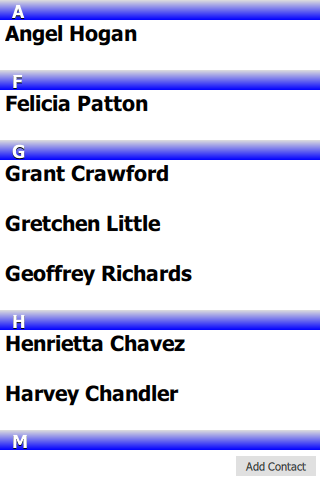
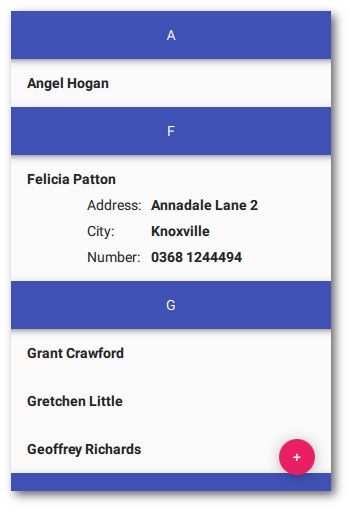
Overhaul the Contact List example - part II
Move the Edit and Remove buttons from the delegate to a context menu
that is triggered on press-and-hold. Get rid of a lot of custom font
sizes and hardcoded geometries. This ensures that the example looks
sensible on all platforms, styles, scale factors, system fonts...

diff --git a/examples/quickcontrols2/contactlist/ContactDelegate.ui.qml b/examples/quickcontrols2/contactlist/ContactDelegate.ui.qml
@@ -49,110 +49,67 @@
 ****************************************************************************/
 
 import QtQuick 2.7
+import QtQuick.Layouts 1.0
 import QtQuick.Controls 2.1
 
-AbstractButton {
+ItemDelegate {
     id: delegate
 
-    property alias remove: remove
-    property alias edit: edit
-
-    width: 300
-    height: 50
-    clip: true
     checkable: true
-    autoExclusive: true
 
-    Column {
-        id: column1
-        height: 400
-        width: parent.width - 20
-        spacing: 4
+    contentItem: ColumnLayout {
+        spacing: 10
 
-        Row {
-            id: row1
-            spacing: 10
-
-            Label {
-                text: fullName
-                font.pointSize: 16
-                anchors.verticalCenter: parent.verticalCenter
-                font.bold: true
-            }
+        Label {
+            text: fullName
+            font.bold: true
+            elide: Text.ElideRight
+            Layout.fillWidth: true
         }
 
-        Grid {
+        GridLayout {
             id: grid
-            opacity: 0
+            visible: false
 
-            x: 60
-            spacing: 10
             columns: 2
+            rowSpacing: 10
+            columnSpacing: 10
+
             Label {
                 text: qsTr("Address:")
-                font.bold: true
-                font.pixelSize: 16
+                Layout.leftMargin: 60
             }
 
             Label {
                 text: address
-                font.pixelSize: 16
                 font.bold: true
+                elide: Text.ElideRight
+                Layout.fillWidth: true
             }
 
             Label {
                 text: qsTr("City:")
-                font.pixelSize: 16
-                font.bold: true
+                Layout.leftMargin: 60
             }
 
             Label {
                 text: city
-                font.pixelSize: 16
                 font.bold: true
+                elide: Text.ElideRight
+                Layout.fillWidth: true
             }
 
             Label {
                 text: qsTr("Number:")
-                font.pixelSize: 16
-                font.bold: true
+                Layout.leftMargin: 60
             }
 
             Label {
                 text: number
-                font.pixelSize: 16
                 font.bold: true
+                elide: Text.ElideRight
+                Layout.fillWidth: true
             }
-        }
-
-        Row {
-            id: row
-            spacing: 12
-            anchors.right: parent.right
-
-            Button {
-                id: remove
-                width: 60
-                height: 20
-                text: "Remove"
-            }
-
-            Button {
-                id: edit
-                width: 60
-                height: 20
-                text: "Edit"
-            }
-        }
-
-        MenuSeparator {
-            id: separator
-            opacity: 0
-            padding: 0
-            anchors.right: parent.right
-            anchors.rightMargin: 4
-            anchors.left: parent.left
-            anchors.leftMargin: 4
         }
     }
 
@@ -162,18 +119,8 @@ AbstractButton {
             when: delegate.checked
 
             PropertyChanges {
-                target: delegate
-                height: 160
-            }
-
-            PropertyChanges {
-                target: separator
-                opacity: 1
-            }
-
-            PropertyChanges {
                 target: grid
-                opacity: 1
+                visible: true
             }
         }
     ]

diff --git a/examples/quickcontrols2/contactlist/ContactView.ui.qml b/examples/quickcontrols2/contactlist/ContactView.ui.qml
@@ -52,65 +52,36 @@ import QtQuick 2.7
 import QtQuick.Controls 2.1
 import Backend 1.0
 
-Page {
-    id: page
+ListView {
+    id: listView
 
-    signal addContact()
-    signal editContact(int index)
-    signal removeContact(int index)
-
-    property alias model: contactModel
+    signal pressAndHold(int index)
 
     width: 320
     height: 480
 
-    ListView {
-        id: listView
-        anchors.fill: parent
+    focus: true
+    boundsBehavior: Flickable.StopAtBounds
 
-        focus: true
-        boundsBehavior: Flickable.StopAtBounds
-
-        section.property: "fullName"
-        section.criteria: ViewSection.FirstCharacter
-        section.delegate: SectionDelegate {
-            width: listView.width
-        }
-
-        delegate: ContactDelegate {
-            id: delegate
-            width: listView.width
-
-            Connections {
-                target: delegate.edit
-                onClicked: page.editContact(index)
-            }
-
-            Connections {
-                target: delegate.remove
-                onClicked: page.removeContact(index)
-            }
-        }
-
-        model: ContactModel {
-            id: contactModel
-        }
-
-        ScrollBar.vertical: ScrollBar { }
+    section.property: "fullName"
+    section.criteria: ViewSection.FirstCharacter
+    section.delegate: SectionDelegate {
+        width: listView.width
     }
 
-    footer: ToolBar {
-        id: footer
+    delegate: ContactDelegate {
+        id: delegate
+        width: listView.width
 
-        ToolButton {
-            id: addButton
-            text: qsTr("Add Contact")
-            anchors.right: parent.right
-
-            Connections {
-                target: addButton
-                onClicked: page.addContact()
-            }
+        Connections {
+            target: delegate
+            onPressAndHold: listView.pressAndHold(index)
         }
     }
+
+    model: ContactModel {
+        id: contactModel
+    }
+
+    ScrollBar.vertical: ScrollBar { }
 }

diff --git a/examples/quickcontrols2/contactlist/contactlist.qml b/examples/quickcontrols2/contactlist/contactlist.qml
@@ -54,6 +54,8 @@ import QtQuick.Controls 2.1
 ApplicationWindow {
     id: window
 
+    property int currentContact: -1
+
     width: 320
     height: 480
     visible: true
@@ -62,19 +64,54 @@ ApplicationWindow {
     ContactDialog {
         id: contactDialog
         onFinished: {
-            if (index === -1)
+            if (currentContact === -1)
                 contactView.model.append(fullName, address, city, number)
             else
-                contactView.model.set(index, fullName, address, city, number)
+                contactView.model.set(currentContact, fullName, address, city, number)
+        }
+    }
+
+    Menu {
+        id: contactMenu
+        x: parent.width / 2 - width / 2
+        y: parent.height / 2 - height / 2
+        modal: true
+
+        Label {
+            padding: 10
+            font.bold: true
+            width: parent.width
+            horizontalAlignment: Qt.AlignHCenter
+            text: currentContact >= 0 ? contactView.model.get(currentContact).fullName : ""
+        }
+        MenuItem {
+            text: qsTr("Edit...")
+            onTriggered: contactDialog.editContact(contactView.model.get(currentContact))
+        }
+        MenuItem {
+            text: qsTr("Remove")
+            onTriggered: contactView.model.remove(currentContact)
         }
     }
 
     ContactView {
         id: contactView
         anchors.fill: parent
+        onPressAndHold: {
+            currentContact = index
+            contactMenu.open()
+        }
+    }
 
-        onAddContact: contactDialog.createContact()
-        onEditContact: contactDialog.editContact(index, model.get(index))
-        onRemoveContact: model.remove(index)
+    RoundButton {
+        text: qsTr("+")
+        highlighted: true
+        anchors.margins: 10
+        anchors.right: parent.right
+        anchors.bottom: parent.bottom
+        onClicked: {
+            currentContact = -1
+            contactDialog.createContact()
+        }
     }
 }

diff --git a/examples/quickcontrols2/contactlist/ContactDialog.qml b/examples/quickcontrols2/contactlist/ContactDialog.qml
@@ -54,7 +54,6 @@ import QtQuick.Controls 2.1
 Dialog {
     id: dialog
 
-    property int index: -1
     signal finished(string fullName, string address, string city, string number)
 
     function createContact() {
@@ -64,18 +63,16 @@ Dialog {
         form.number.clear();
 
         dialog.title = qsTr("Add Contact");
-        dialog.index = -1;
         dialog.open();
     }
 
-    function editContact(index, contact) {
+    function editContact(contact) {
         form.fullName.text = contact.fullName;
         form.address.text = contact.address;
         form.city.text = contact.city;
         form.number.text = contact.number;
 
         dialog.title = qsTr("Edit Contact");
-        dialog.index = index;
         dialog.open();
     }
 
